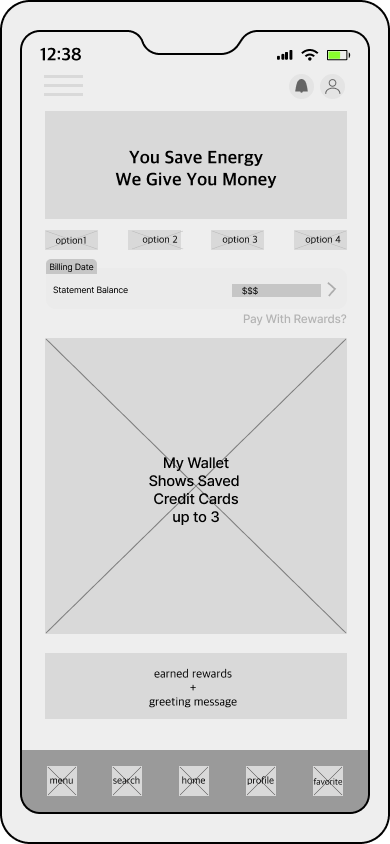
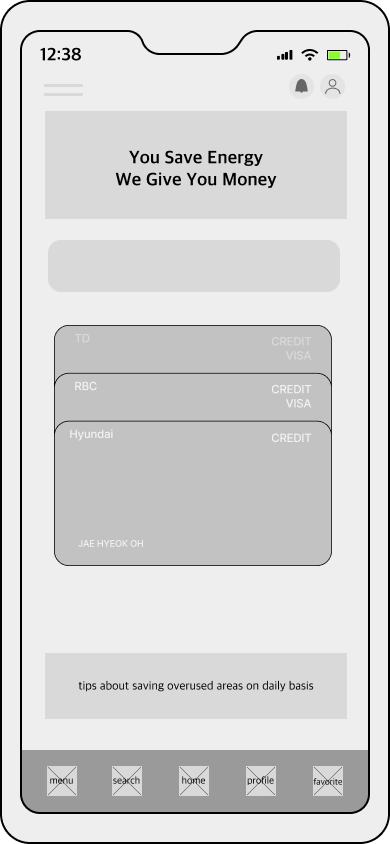
update wireframe

diff --git a/src/components/PowerPause.jsx b/src/components/PowerPause.jsx
@@ -9,11 +9,11 @@ import problemImg from '../assets/bc/problem1.png';
 import problemImg2 from '../assets/bc/problem2.png';
 import research1 from '../assets/bc/research1.png';
 import persona from '../assets/bc/persona.png';
-import solution2 from '../assets/bc/mockup2.png';
-import solution3 from '../assets/bc/mockup3.png';
-import solution4 from '../assets/bc/mockup4.png';
 import wireframe1 from '../assets/bc/wireframe1.png';
 import wireframe2 from '../assets/bc/wireframe2.png';
+import wireframe3 from '../assets/bc/wireframe3.png';
+import wireframe4 from '../assets/bc/wireframe4.png';
+import wireframe5 from '../assets/bc/hifi.png';
 
 const sectionsForNav = [
   { id: 'overview',   label: 'Overview' },
@@ -26,7 +26,6 @@ const sectionsForNav = [
 ];
 
 const PowerPause = ({ prevId, nextId }) => {
-  // useEffect(() => { window.scrollTo({ top: 0, behavior: 'auto' }); }, []);
 
   return (
     <div className="project-detail-wrapper powerpause-page has-side-right">
@@ -170,12 +169,6 @@ const PowerPause = ({ prevId, nextId }) => {
                 </ul>
               </div>
             </div>
-
-            <div className="solution-image-row">
-              <img src={solution2} alt="Usage and goals" />
-              <img src={solution3} alt="Remote control and smart tips" />
-              <img src={solution4} alt="Rewards and donation flow" />
-            </div>
           </section>
 
           {/* ===== WIREFRAMES ===== */}
@@ -186,17 +179,21 @@ const PowerPause = ({ prevId, nextId }) => {
               and the donation that follows confirmed savings.
             </p>
             <ol>
-              <li><strong>Alert → Quick Fix:</strong> “Light left on” → Turn Off → success state.</li>
-              <li><strong>Home Control:</strong> device overview → scene trigger → confirmation.</li>
-              <li><strong>Travel Mode:</strong> duration, auto rules, emergency contact.</li>
-              <li><strong>Donate:</strong> convert points → choose cause → receipt.</li>
+              <li><strong>Simple → Quick Sign Up:</strong> “Using Gmail” → Sign In → Start Control.</li>
+              <li><strong>Home Control:</strong> Device overview → Scene trigger → Confirmation.</li>
+              <li><strong>Saving Mode:</strong> Weekly savings, Get rewards, Share rewards.</li>
+              <li><strong>Donate:</strong> Convert points → Choose cause → Receipt.</li>
             </ol>
 
             <div className="wireframe-grid">
               <img src={wireframe1} alt="Wireframe: alert to quick action" />
-              <img src={wireframe2} alt="Wireframe: device control and donation" />
-              <img src={wireframe1} alt="Wireframe: travel mode" />
-              <img src={wireframe2} alt="Wireframe: progress and points" />
+              <img src={wireframe3} alt="Wireframe: savings and rewards" />
+              <img src={wireframe2} alt="Wireframe: device control" />
+              <img src={wireframe4} alt="Wireframe: pay and donate" />
+            </div>
+
+              <div className="hi-fi-wireframe-grid">
+              <img src={wireframe5} alt="Usage and goals" />
             </div>
           </section>
 
